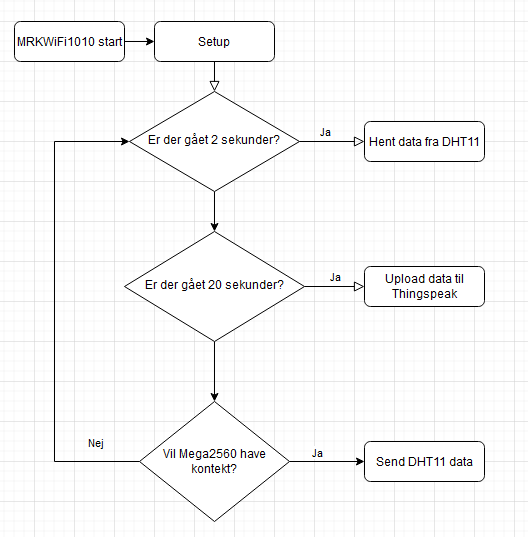
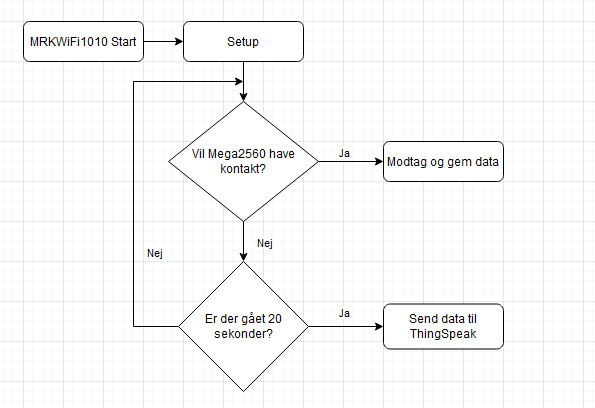
Added new picture. Replaced old MRKWiFi. Edit README

diff --git a/README.md b/README.md
@@ -35,3 +35,42 @@ Test af will.
 * WiFiNINA
 * ThingSpeak
 * SercomSPISlave
+
+## Analyse SPI
+![image](Billeder/Analyser.PNG)
+
+## Setup
+### MRKWiFi1010
+#### SPI
+* Put MISO kablet i pin 10
+* Put SCK kablet i pin 9
+* Put MOSI kablet i pin 8
+* Put SS kablet i pin 7
+* Begge bords skal have samme ground
+Husk level converter
+
+### Mega2560
+#### SPI
+* Put MISO kablet i pin 50
+* Put SCK kablet i pin 52
+* Put MOSI kablet i pin 51
+* Put SS kablet i pin 53
+* Begge bords skal have samme ground
+Husk level converter
+#### Display
+* SDA kablet til SDA pin
+* SCL kablet til SCL pin
+* VCC til 5v
+* GND til ground
+#### Clock
+* SDA kablet til SDA pin
+* SCL kablet til SCL pin
+* VCC til 5v
+* GND til ground
+#### DHT11
+* Signal til pin 2
+* VCC til 5v
+* GND til ground
+#### Knap
+* Et ben til ground
+* Modsvarende ben til pin 3
